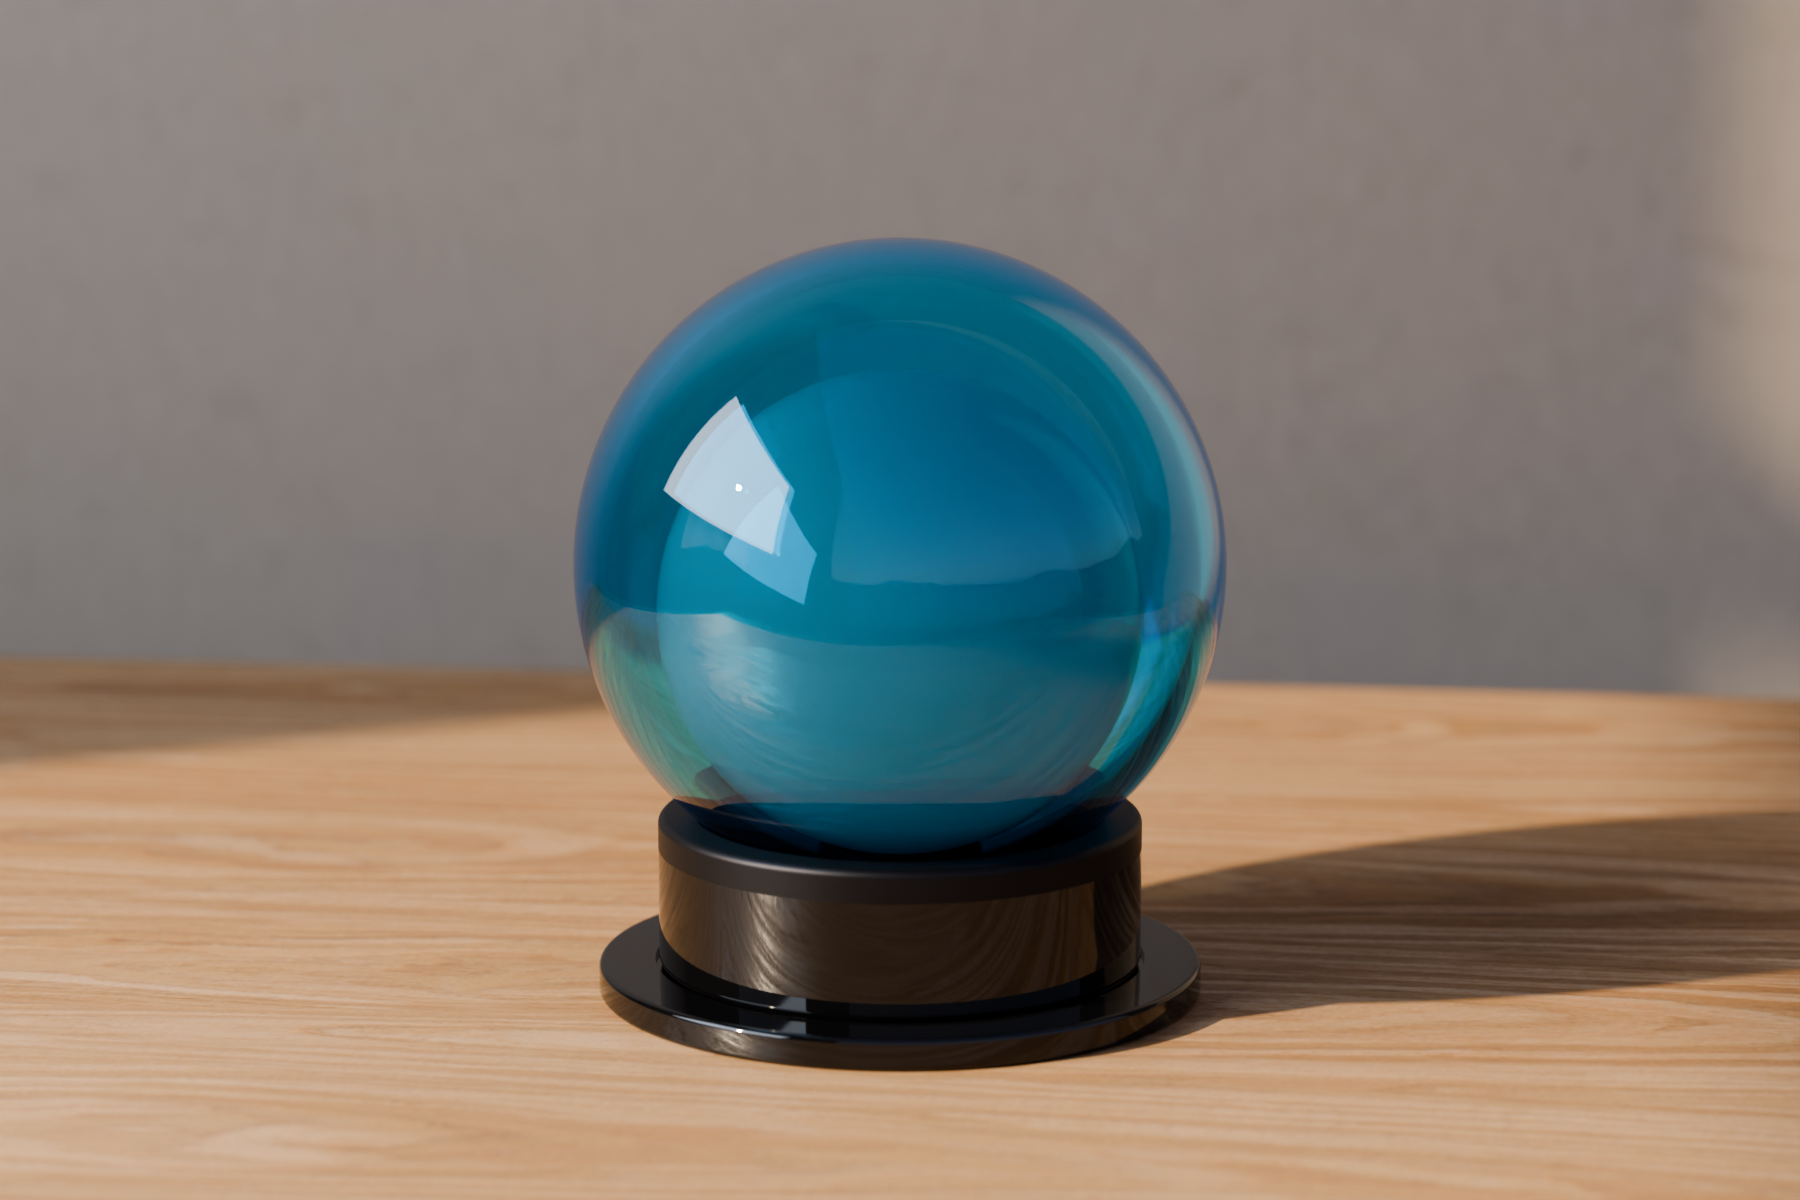
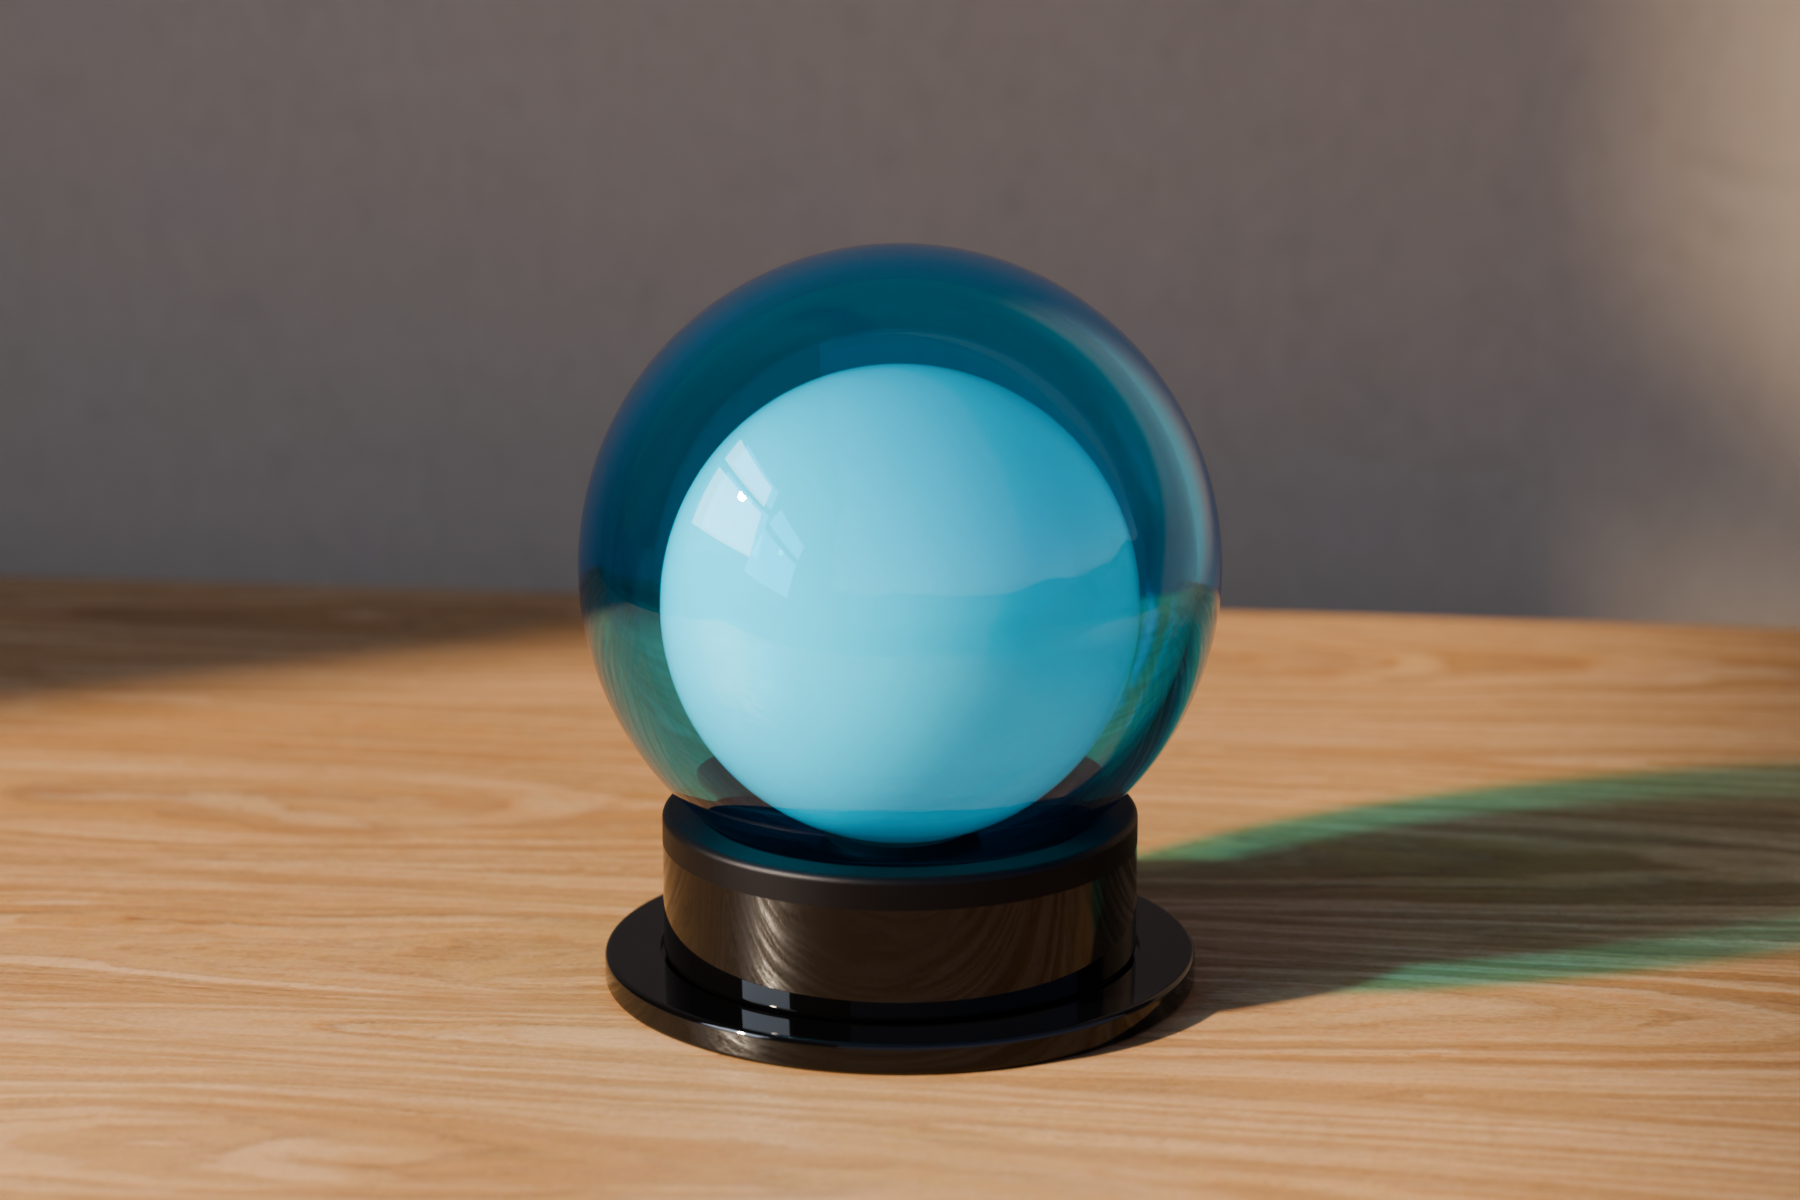
Lamp pictures round 14: ruling 4 and the card audit (the window walls real and seen, the LED face casts shadows, the dusk through two real openings with sheer curtains, the day's sky outside its opening; a CARD_AUDIT mode that ray-casts the frame); Core B day final round 12
Claude-Session: https://claude.ai/code/session_01VCPNDaozJgar2mVTSvis3A

diff --git a/spinoffs/barkhorn/companions/lamp_pictures.py b/spinoffs/barkhorn/companions/lamp_pictures.py
@@ -99,6 +99,13 @@ def build(frame, samples, scale):
     def shell_T(tint, loading, mm):
         return tuple(math.exp(-a * mm / 1000.0) * 0.96 for a in SC.absorption(tint, loading))   # 4 % lost at each face
 
+    def gobo(*a, **k):
+        # round 14 (the card audit): the window wall is a real wall, seen by the camera too, not a reflect-only card
+        obs = SC.window_gobo(*a, **k)
+        for o_ in obs:
+            o_.visible_camera = True
+        return obs
+
     def light(nm, kind, loc, watts, radius, rot=(0, 0, 0), spot=None):
         """A real light at the LED's colour temperature (round 4, 2026-11-03, the coordinator's brief: the light reaches
         the room through the acrylic; the tint's lit hue is the source's through the glass)."""
@@ -258,7 +265,7 @@ def build(frame, samples, scale):
             em = bpy.data.materials.new('led-em'); em.use_nodes = True
             b = em.node_tree.nodes['Principled BSDF']; b.inputs['Emission Color'].default_value = (*blackbody(cct), 1)
             b.inputs['Emission Strength'].default_value = 8.0
-            led.materials.append(em); lo.visible_diffuse = False; lo.visible_shadow = False
+            led.materials.append(em); lo.visible_diffuse = False   # round 14 (ruling 4): it casts shadows
         cam = ((0.12, -1.02, tz + float(os.environ.get('CORE_CAM_Z', '0.36'))), (0.0, 0.0, tz + 0.098), 85.0)
     else:
         rim = tz + 0.70                                                 # the rim 700 above the table
@@ -372,28 +379,30 @@ def build(frame, samples, scale):
             from mathutils import Vector
             # (round 12: an area light's edge is hard in the glass; so a sheer curtain lit by the dusk outside, an emitting
             # surface brightest at its middle and fading to its edges, out of frame to the left)
-            def curtain(nm, loc, scl, at):
-                cu = bpy.data.meshes.new(nm); bm_ = bmesh.new()
-                bmesh.ops.create_grid(bm_, x_segments=1, y_segments=1, size=0.5); bm_.to_mesh(cu); bm_.free()
-                co = bpy.data.objects.new(nm, cu); bpy.context.scene.collection.objects.link(co)
-                co.location = loc; co.scale = scl
-                co.rotation_euler = (Vector(at) - co.location).to_track_quat('Z', 'Y').to_euler()
-                cm_ = bpy.data.materials.new(nm); cm_.use_nodes = True; nt_ = cm_.node_tree; nt_.nodes.clear()
-                o_ = nt_.nodes.new('ShaderNodeOutputMaterial'); em_ = nt_.nodes.new('ShaderNodeEmission')
-                em_.inputs['Color'].default_value = (*SC.hex_lin('#9FB2D6'), 1)
-                tc_ = nt_.nodes.new('ShaderNodeTexCoord'); mp_ = nt_.nodes.new('ShaderNodeMapping')
-                mp_.inputs['Location'].default_value = (-1.0, -1.0, 0.0); mp_.inputs['Scale'].default_value = (2.0, 2.0, 0.0)
-                gr_ = nt_.nodes.new('ShaderNodeTexGradient'); gr_.gradient_type = 'QUADRATIC_SPHERE'
-                pw_ = nt_.nodes.new('ShaderNodeMath'); pw_.operation = 'POWER'; pw_.inputs[1].default_value = 1.5
-                mu_ = nt_.nodes.new('ShaderNodeMath'); mu_.operation = 'MULTIPLY'; mu_.inputs[1].default_value = float(os.environ.get('DUSK_E', '4.0'))
-                nt_.links.new(tc_.outputs['Generated'], mp_.inputs['Vector']); nt_.links.new(mp_.outputs['Vector'], gr_.inputs['Vector'])
-                nt_.links.new(gr_.outputs['Fac'], pw_.inputs[0]); nt_.links.new(pw_.outputs[0], mu_.inputs[0])
-                nt_.links.new(mu_.outputs[0], em_.inputs['Strength']); nt_.links.new(em_.outputs[0], o_.inputs['Surface'])
-                cu.materials.append(cm_)
-            curtain('curtain', (-1.6, -0.9, tz + 1.2), (0.7, 2.2, 1.0), (0.0, 0.0, tz + 0.75))
-            # round 14 (the coordinator: a sliver of the dusk curtain in frame): a second sheer panel on the back wall,
-            # its edge at the frame's left
-            curtain('curtain-back', (-0.62, 0.70, tz + 0.80), (0.45, 1.5, 1.0), (-0.62, -1.0, tz + 0.80))
+            # round 14 (ruling 4: light reaches the subject only through a real opening): the dusk comes in through two
+            # real openings, each with a sheer curtain in it, lit by a dim dusk sky outside: the front part of the left
+            # wall (the day's window), and a narrow one in the back wall whose curtain shows at the frame's left
+            sheer = bpy.data.materials.new('sheer'); sheer.use_nodes = True; nts = sheer.node_tree; nts.nodes.clear()
+            os_ = nts.nodes.new('ShaderNodeOutputMaterial'); tl_ = nts.nodes.new('ShaderNodeBsdfTranslucent')
+            tp_ = nts.nodes.new('ShaderNodeBsdfTransparent'); mx_ = nts.nodes.new('ShaderNodeMixShader')
+            tl_.inputs['Color'].default_value = (0.86, 0.87, 0.88, 1); tp_.inputs['Color'].default_value = (0.55, 0.55, 0.55, 1)
+            mx_.inputs[0].default_value = 0.35
+            nts.links.new(tl_.outputs[0], mx_.inputs[1]); nts.links.new(tp_.outputs[0], mx_.inputs[2])
+            nts.links.new(mx_.outputs[0], os_.inputs['Surface'])
+            dW = float(os.environ.get('DUSK_W', '20'))
+            gobo(-1.3, -1.3, -0.35, 0.75, 2.4, panes=(1, 2))
+            SC.plane('sheer-left', (0.95, 1.65), (-1.27, -0.825, 1.575), (90, 0, 90), sheer)
+            dl = SC.area('dusk-left', (-1.75, -0.825, 1.575), (0, 0, 0), (1.0, 1.7), dW, '#9FB2D6')
+            dl.rotation_euler = (Vector((0.0, -0.825, 1.575)) - dl.location).to_track_quat('-Z', 'Y').to_euler()
+            wall = bpy.data.objects['wall']; wm = wall.active_material; wy = wall.location[1]
+            bpy.data.objects.remove(wall, do_unlink=True)
+            x0, x1, z0w, z1w = -1.05, -0.58, tz + 0.15, tz + 1.55
+            for nm_, xa, xb, za, zb in (('wall-a', -1.3, x0, -0.5, 3.5), ('wall-b', x1, 3.0, -0.5, 3.5),
+                                        ('wall-c', x0, x1, -0.5, z0w), ('wall-d', x0, x1, z1w, 3.5)):
+                SC.plane(nm_, (xb - xa, zb - za), ((xa + xb) / 2, wy, (za + zb) / 2), (90, 0, 0), wm)
+            SC.plane('sheer-back', (x1 - x0, z1w - z0w), ((x0 + x1) / 2, wy - 0.005, (z0w + z1w) / 2), (90, 0, 0), sheer)
+            db = SC.area('dusk-back', ((x0 + x1) / 2, wy + 0.35, (z0w + z1w) / 2), (0, 0, 0), (0.6, 1.5), dW * 0.25, '#9FB2D6')
+            db.rotation_euler = (Vector(((x0 + x1) / 2, 0.0, (z0w + z1w) / 2)) - db.location).to_track_quat('-Z', 'Y').to_euler()
             # round 11: a small, dim real light behind and above the pendant, between it and the wall, facing the camera
             # side (no light linking): it catches the cap's tiers and is seen in the gloss for what it is
             kk = SC.area('kicker', (0.25, 0.45, tz + 1.05), (0, 0, 0), (0.25, 0.25), float(os.environ.get('KICK_W', '1.5')), '#D8DCE4')
@@ -405,13 +414,13 @@ def build(frame, samples, scale):
             # round 11 (the coordinator: the core lit, the wall behind it in shade): the same window, its opening the
             # front part of the left wall, and the sun in through it from the front left, onto the ball's face; the
             # wall behind the ball takes no sun (the window wall shades it), as a room by a window does
-            SC.window_gobo(-1.3, -1.3, -0.35, 0.75, 2.4, panes=(1, 2))
+            gobo(-1.3, -1.3, -0.35, 0.75, 2.4, panes=(1, 2))
             # round 12 (the gate: the window a flat grey card in the glass): the sky behind the frame, so its bars show
             SC.area('window-sky', (-1.45, -0.82, 1.55), (0, -90, 0), (0.9, 1.6), float(os.environ.get('CSKY', '60')), '#DCE6F5')
             SC.sun_lamp('sun', (0.75, 0.45, -0.45), strength=float(os.environ.get('CSUN', '10')), color='#FFE7C8', angle=3.0)
         else:
-            SC.window_gobo(-1.3, -1.3, 0.9, 0.75, 2.4, panes=(2, 2))
-            SC.area('window-sky', (-1.25, -0.2, 1.55), (0, -90, 0), (1.5, 2.0), 90.0, '#DCE6F5')
+            gobo(-1.3, -1.3, 0.9, 0.75, 2.4, panes=(2, 2))
+            SC.area('window-sky', (-1.45, -0.2, 1.55), (0, -90, 0), (1.5, 2.0), 90.0, '#DCE6F5')   # round 14 (ruling 4): outside, through the opening
             SC.sun_lamp('sun', (0.86, -0.25, -0.34), strength=10.0, color='#FFE7C8', angle=1.5)
         if prod == 'core' and var == 'nested' and float(os.environ.get('SIDEBACK_W', '0')) > 0:
             # round 11 (the gate's lever: glass is shot with a side-back light): a tall soft strip behind and to the left,
@@ -427,6 +436,34 @@ def build(frame, samples, scale):
         # (round 9: the crumpled net was caustic noise, the core lit through its own shell; with the core open at its
         # base the default guides are clean again)
     SC.camera(cam[0], cam[1], lens=cam[2], fstop=5.6)
+    if os.environ.get('CARD_AUDIT'):
+        # round 14 (the coordinator's card audit): ray-cast the frame (every max(W,H)/240 px) and report, for each object
+        # hidden from the camera, the share of rays whose first hit it would be; then each object that casts no shadow
+        from mathutils import Vector
+        sc = bpy.context.scene; cam_ob = sc.camera
+        hidden = [o for o in sc.objects if o.type == 'MESH' and not o.visible_camera]
+        dg = bpy.context.evaluated_depsgraph_get()
+        W, H = sc.render.resolution_x, sc.render.resolution_y
+        step = max(W, H) / 240.0
+        fr = [cam_ob.matrix_world @ v for v in cam_ob.data.view_frame(scene=sc)]   # tr, br, bl, tl
+        o = cam_ob.matrix_world.translation
+        hits = {h.name: 0 for h in hidden}; n = 0
+        y = step / 2
+        while y < H:
+            x = step / 2
+            while x < W:
+                u, v = x / W, y / H
+                top = fr[3].lerp(fr[0], u); bot = fr[2].lerp(fr[1], u); pt = top.lerp(bot, v)
+                d = (pt - o).normalized(); n += 1
+                for h in hidden:   # each card alone, as a real card there would be: occlusion ignored
+                    mi = h.matrix_world.inverted(); lo = mi @ o; ld = (mi.to_3x3() @ d).normalized()
+                    if h.ray_cast(lo, ld)[0]:
+                        hits[h.name] += 1
+                x += step
+            y += step
+        print('CARD-AUDIT', frame, {k: round(100.0 * v / n, 1) for k, v in hits.items()}, 'rays', n)
+        print('NO-SHADOW', frame, [o.name for o in sc.objects if o.type == 'MESH' and not o.visible_shadow])
+        return
     os.makedirs(OUT, exist_ok=True)
     out = os.environ.get('LAMP_OUT') or os.path.join(OUT, frame + '.png')
     bpy.context.scene.render.filepath = out
